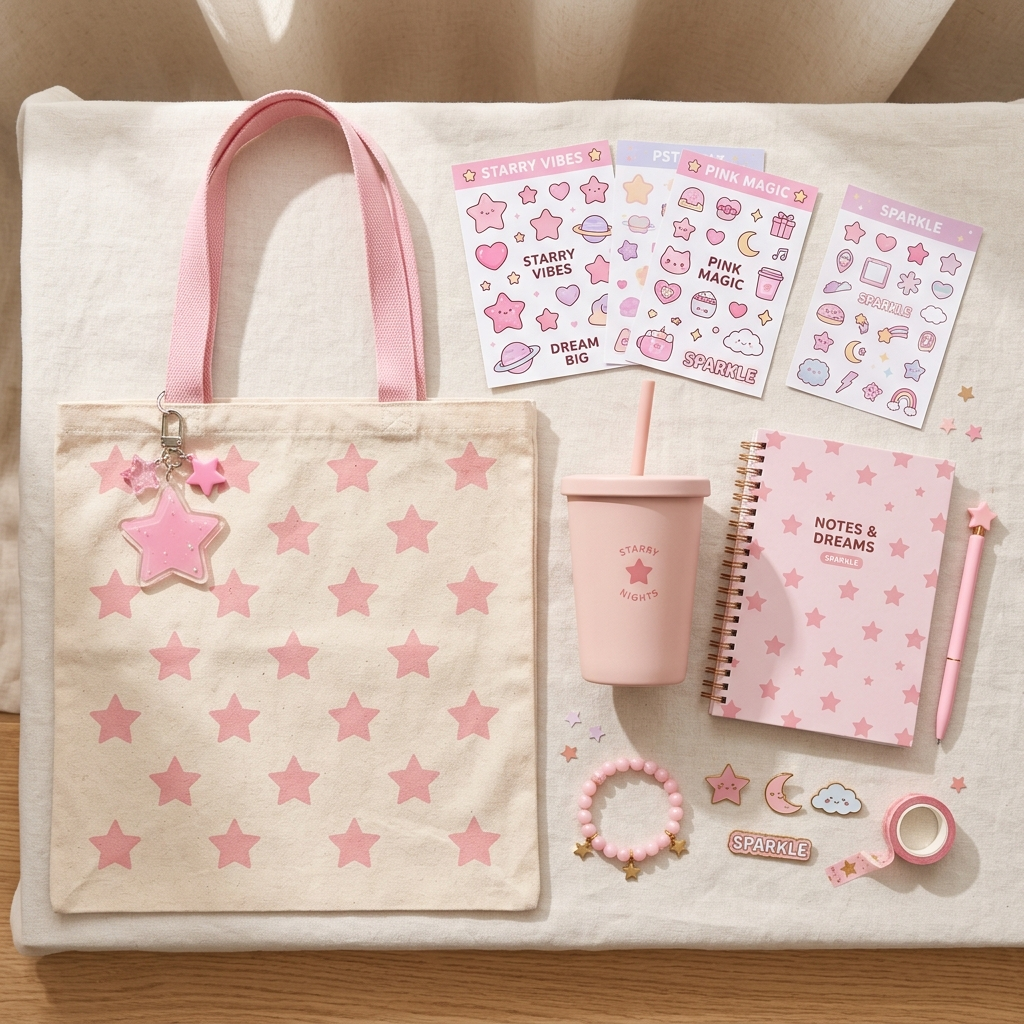
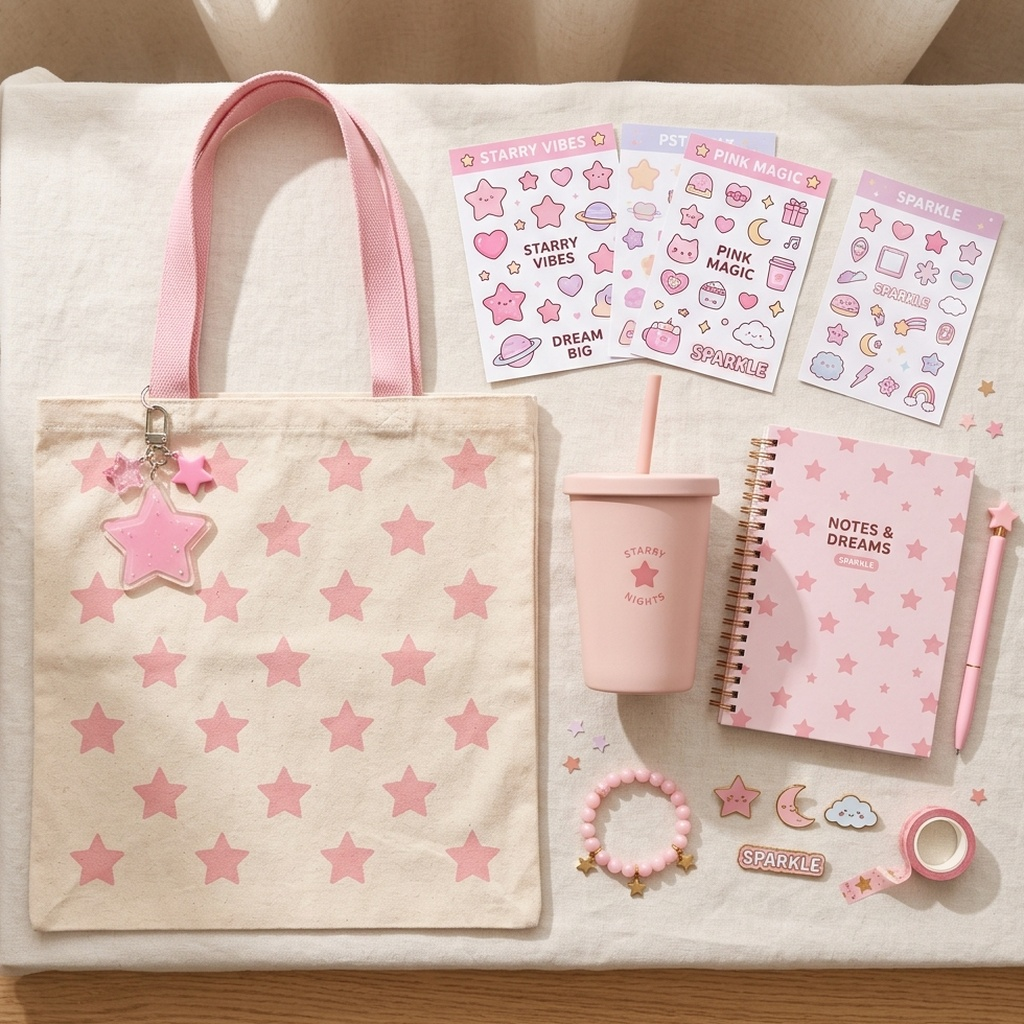
feat: update hero section styling and replace asset with redesigned image

diff --git a/storefront/app/pages/index.vue b/storefront/app/pages/index.vue
@@ -305,28 +305,16 @@ onMounted(async () => {
           <!-- Hero Right Column -->
           <div class="lg:col-span-7 relative flex justify-center w-full">
             <div
-              class="w-full max-w-xl aspect-square sm:aspect-16/13 rounded-[2rem] overflow-hidden shadow-2xl shadow-primary-900/10 border-4 border-white relative group"
+              class="w-full max-w-xl aspect-square sm:aspect-16/13 rounded-2xl sm:rounded-[2rem] overflow-hidden shadow-2xl shadow-primary-900/10 border-2 sm:border-4 border-white relative group bg-white/30"
             >
               <img
                 :src="item.image"
                 :alt="item.title"
-                class="w-full h-full object-cover group-hover:scale-103 transition-all duration-700"
+                class="w-full h-full object-contain sm:object-cover group-hover:scale-103 transition-all duration-700"
               />
               <div
-                class="absolute inset-0 bg-linear-to-t from-black/25 via-transparent to-transparent"
+                class="absolute inset-0 bg-linear-to-t from-black/15 via-transparent to-transparent pointer-events-none"
               ></div>
-              <!-- Floating Badge -->
-              <!-- <div
-                class="absolute bottom-4 left-4 bg-white/95 backdrop-blur-xs border border-primary-100/60 rounded-2xl py-2 px-4 shadow-lg flex items-center gap-2"
-              >
-                <span
-                  class="w-2.5 h-2.5 rounded-full bg-emerald-500 animate-ping"
-                ></span>
-                <span
-                  class="text-[10px] font-extrabold text-gray-800 uppercase tracking-wider"
-                  >Ready Stock Tersedia</span
-                >
-              </div> -->
             </div>
           </div>
         </div>
